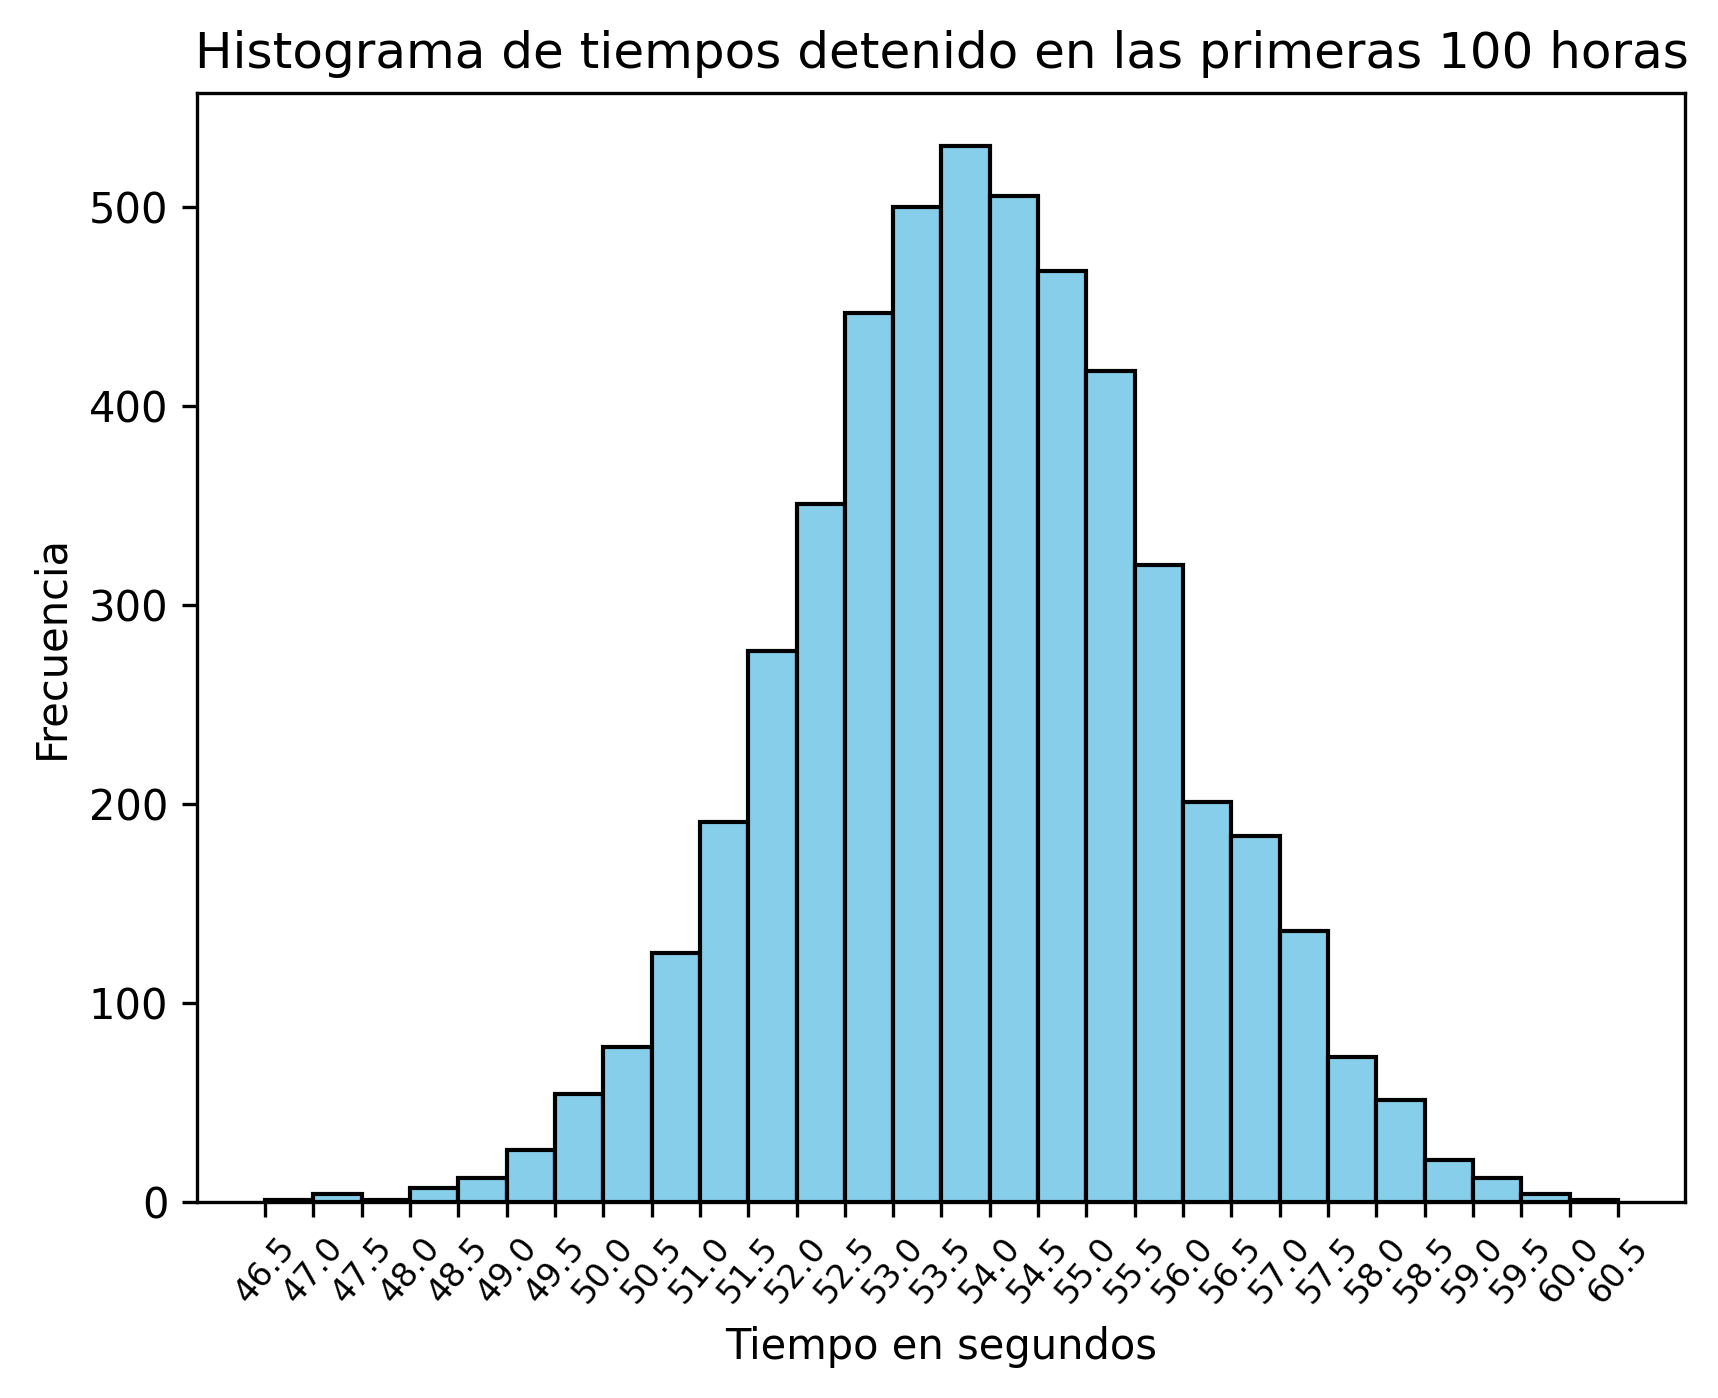
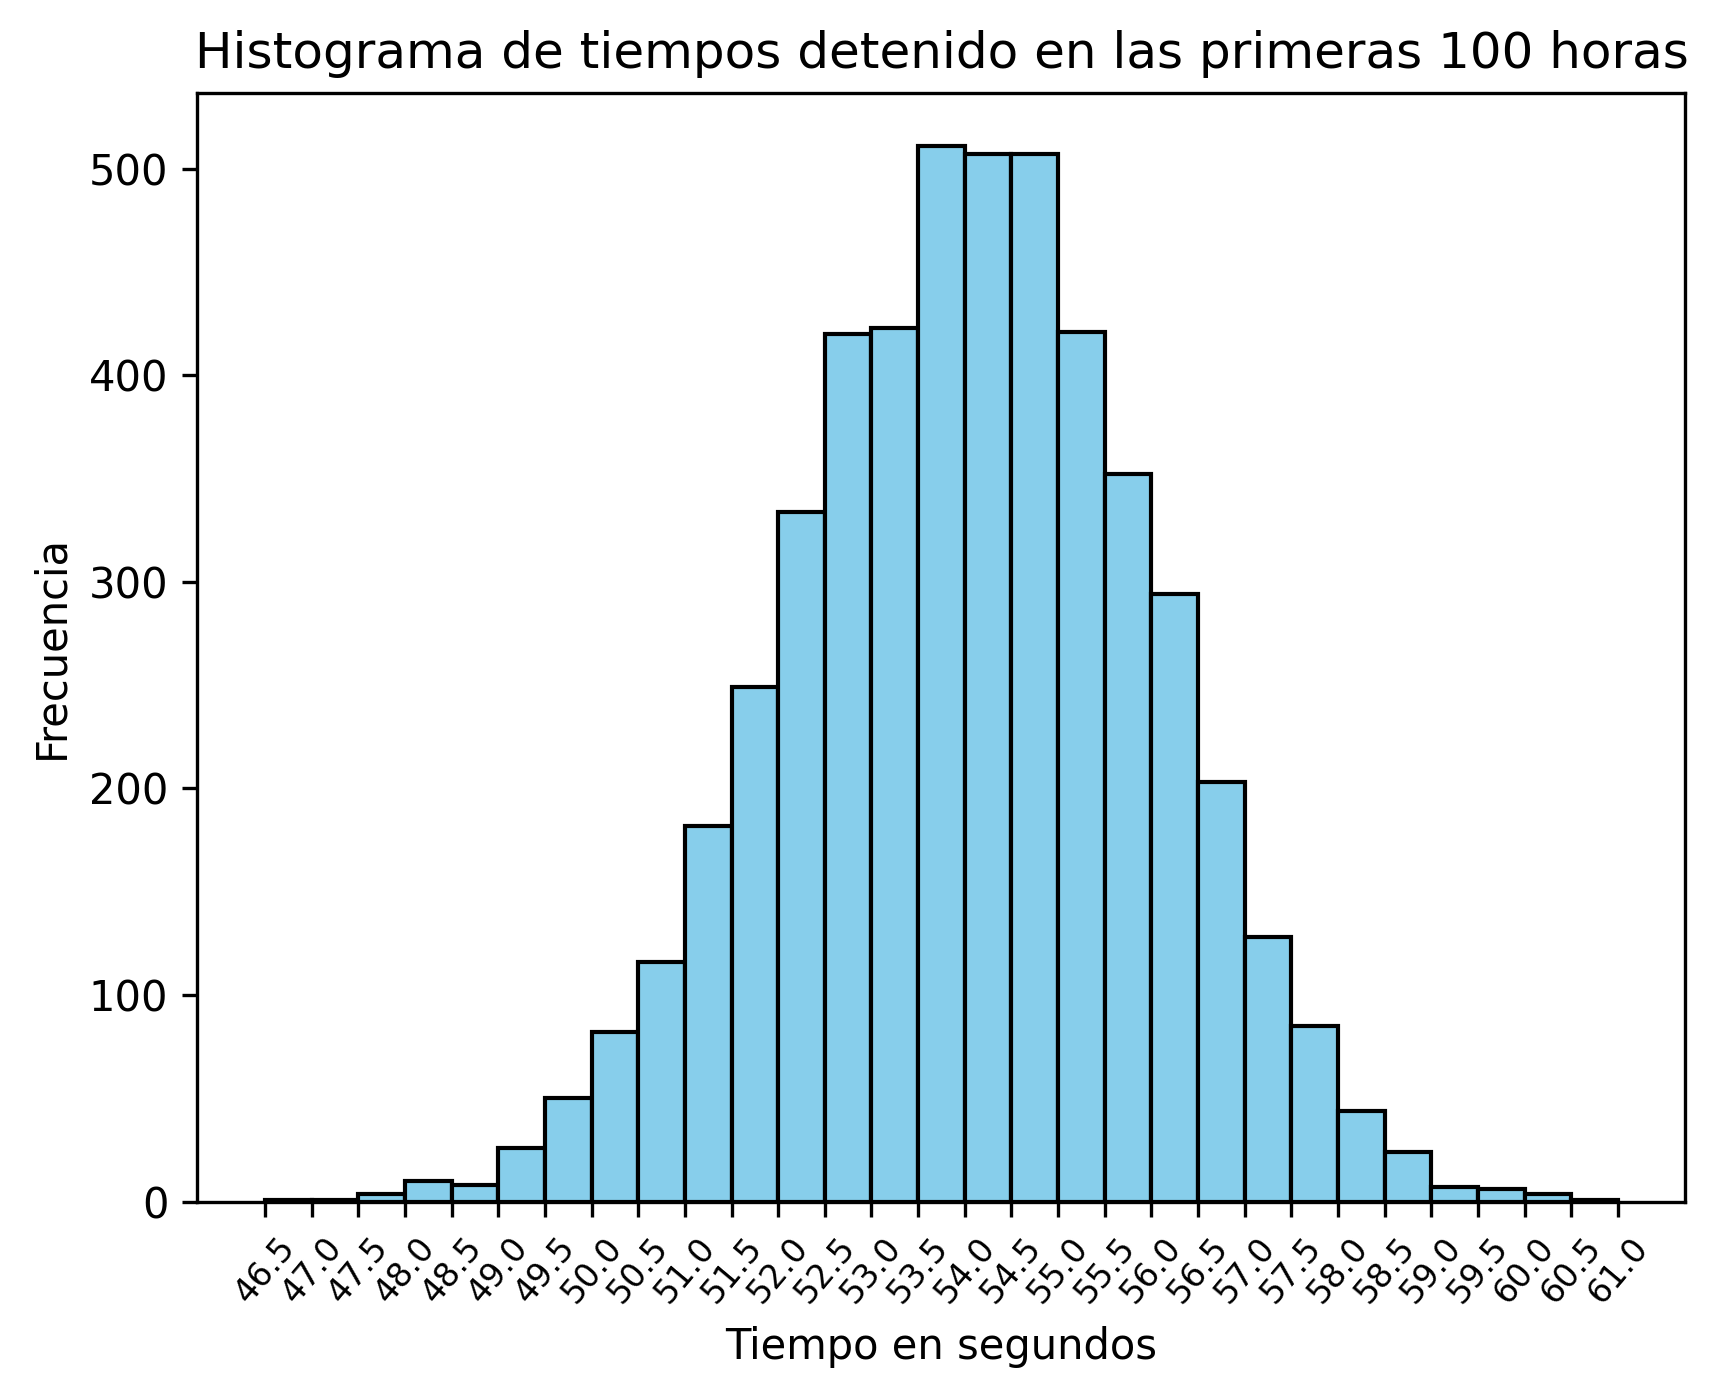
contar tiempo que pasa dormido si termina los procesos antes de T

diff --git a/practico6/9.py b/practico6/9.py
@@ -27,7 +27,7 @@ def lambda_t(t: float) -> float:
         return 19 - 3 * (x - 5)
 
 
-def simulate_server(T: float, debug: bool = False) -> tuple[float, float]:
+def simulate_server(T: float, debug: bool = False) -> float:
     job_events = poisson_process(T, 19, lambda_t)
 
     if debug:
@@ -57,7 +57,14 @@ def simulate_server(T: float, debug: bool = False) -> tuple[float, float]:
             time += work_time
             next_job += 1
 
-    return time, total_sleep_time
+    # add sleep time if finished all jobs before T
+    if time < T:
+        total_sleep_time += T - time
+
+        if debug:
+            print(f"Sleep from {time} to {T}")
+
+    return total_sleep_time
 
 
 def estimate_sleep_time(T: float, n_sims: int) -> tuple[float, list[float]]:
@@ -65,7 +72,7 @@ def estimate_sleep_time(T: float, n_sims: int) -> tuple[float, list[float]]:
     sleep_times = []
 
     for _ in range(n_sims):
-        _, sleep_time = simulate_server(T)
+        sleep_time = simulate_server(T)
         acc += sleep_time
         sleep_times.append(sleep_time)
 
